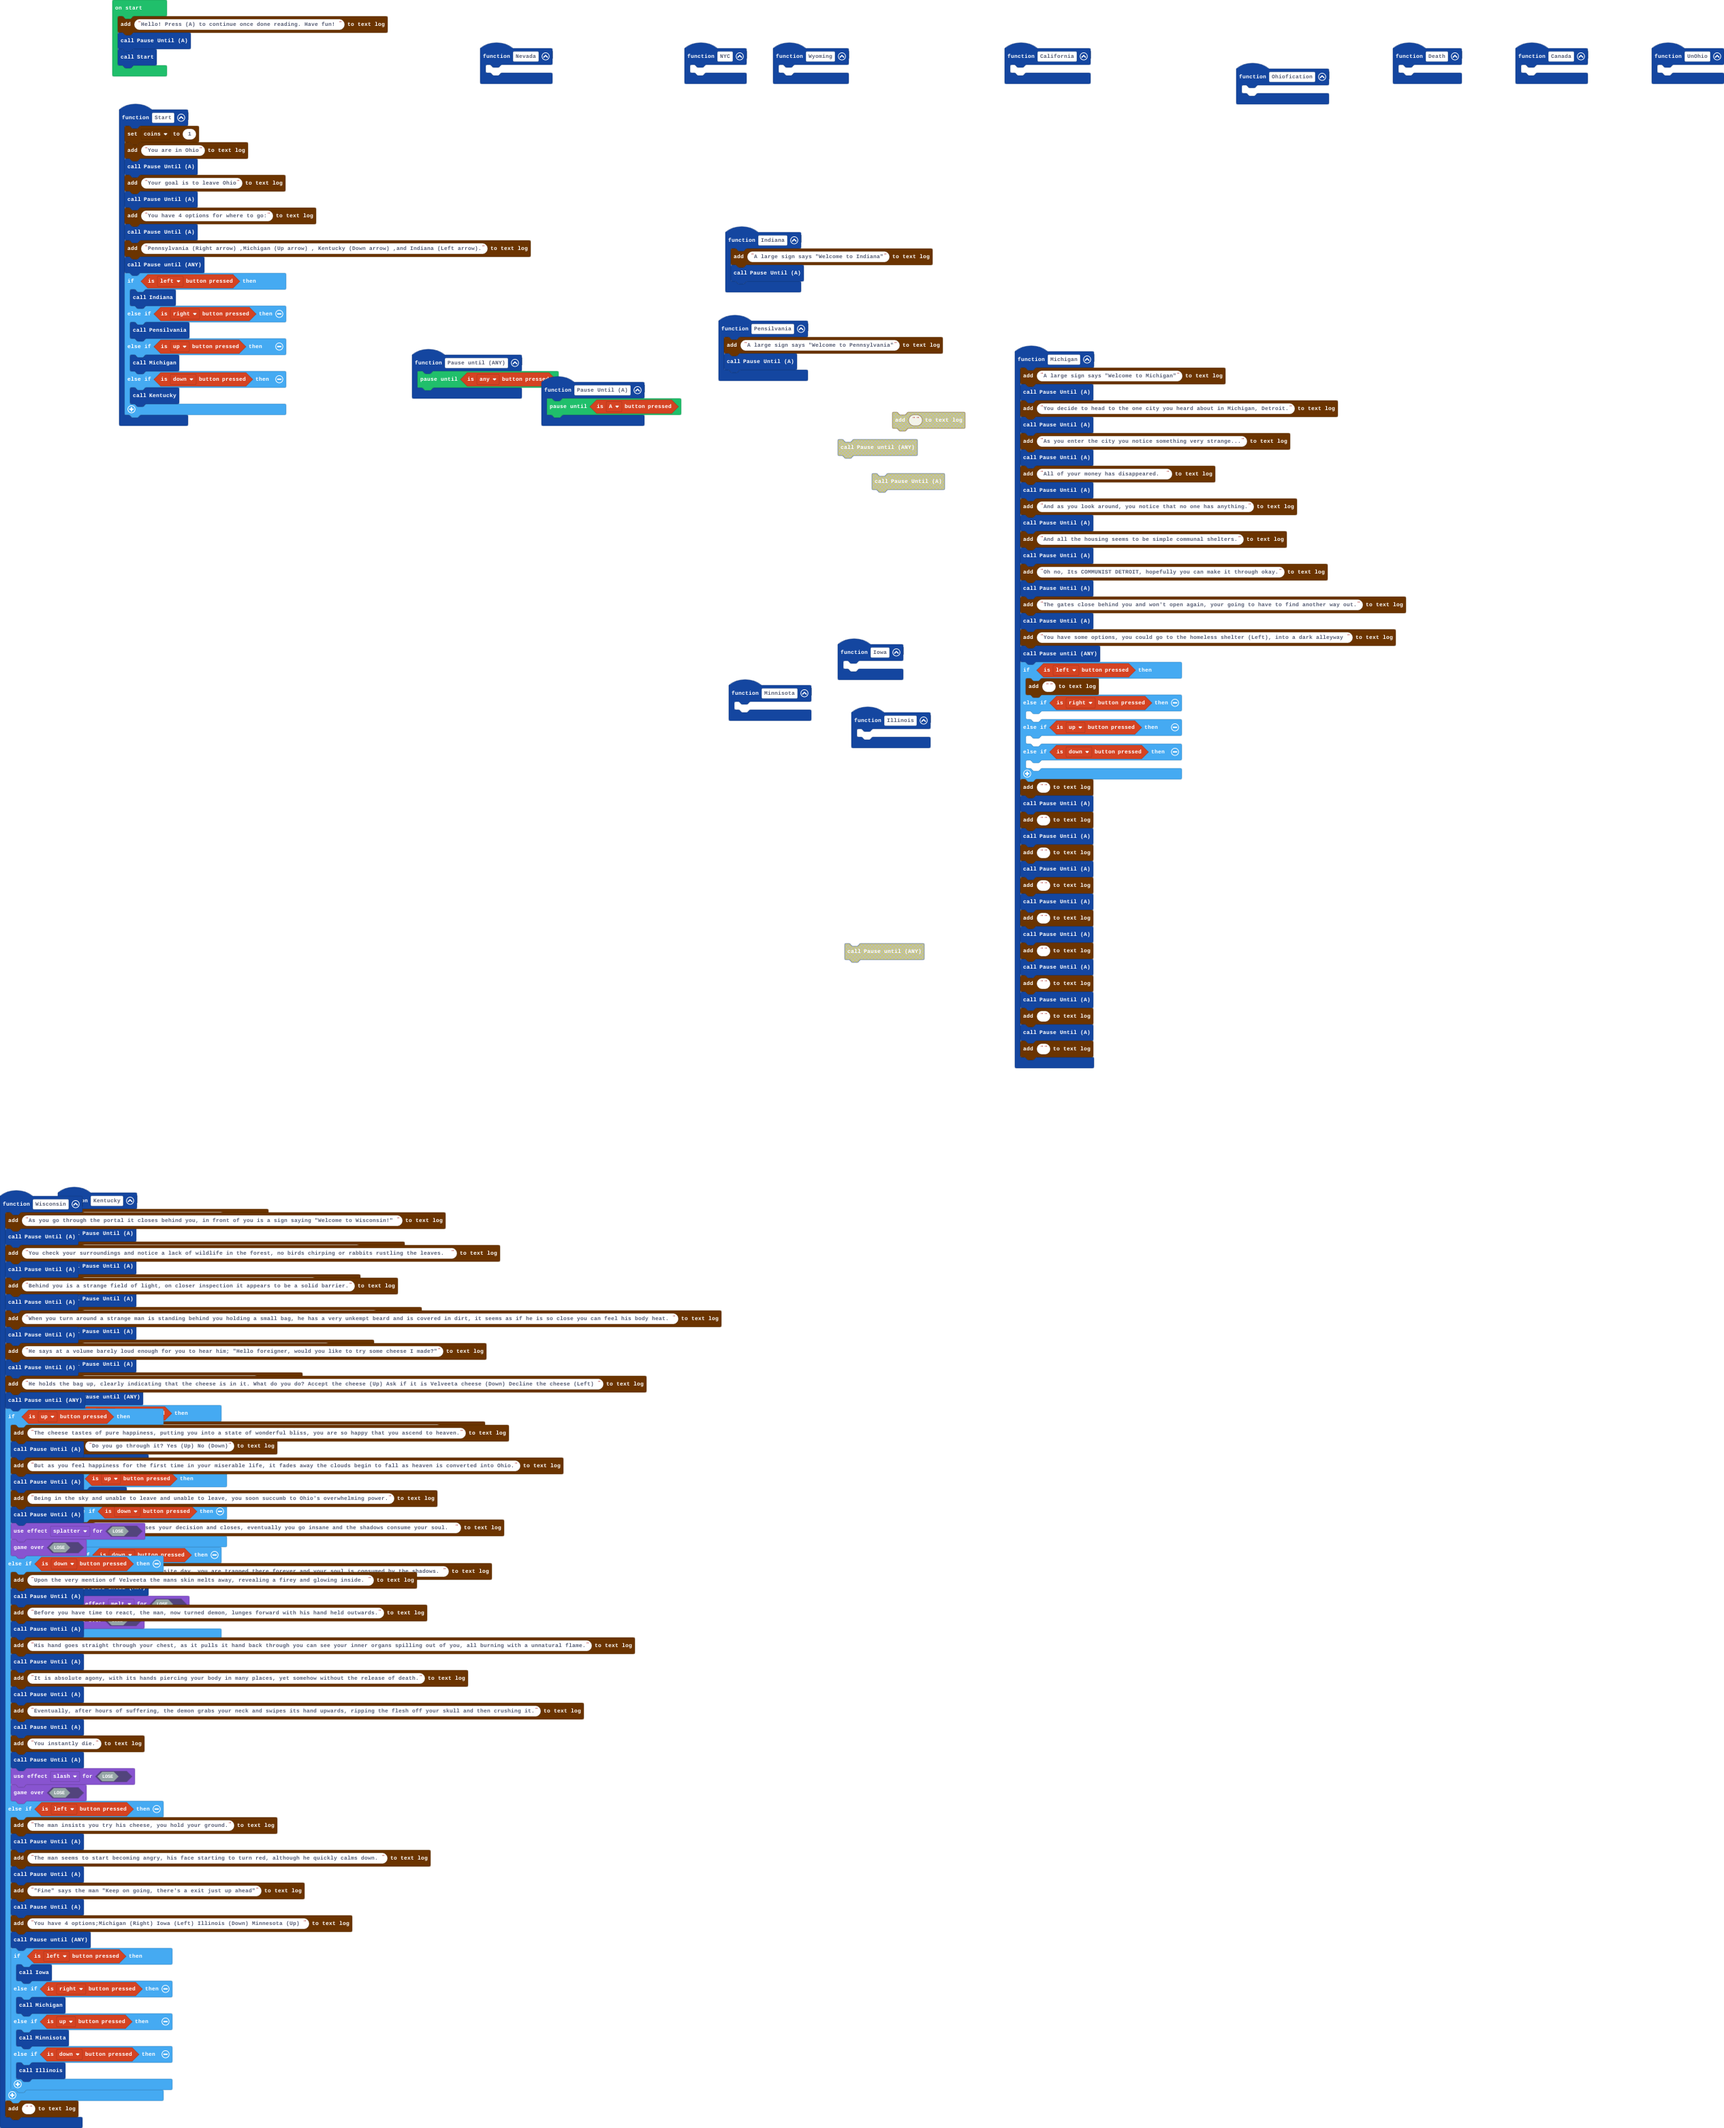
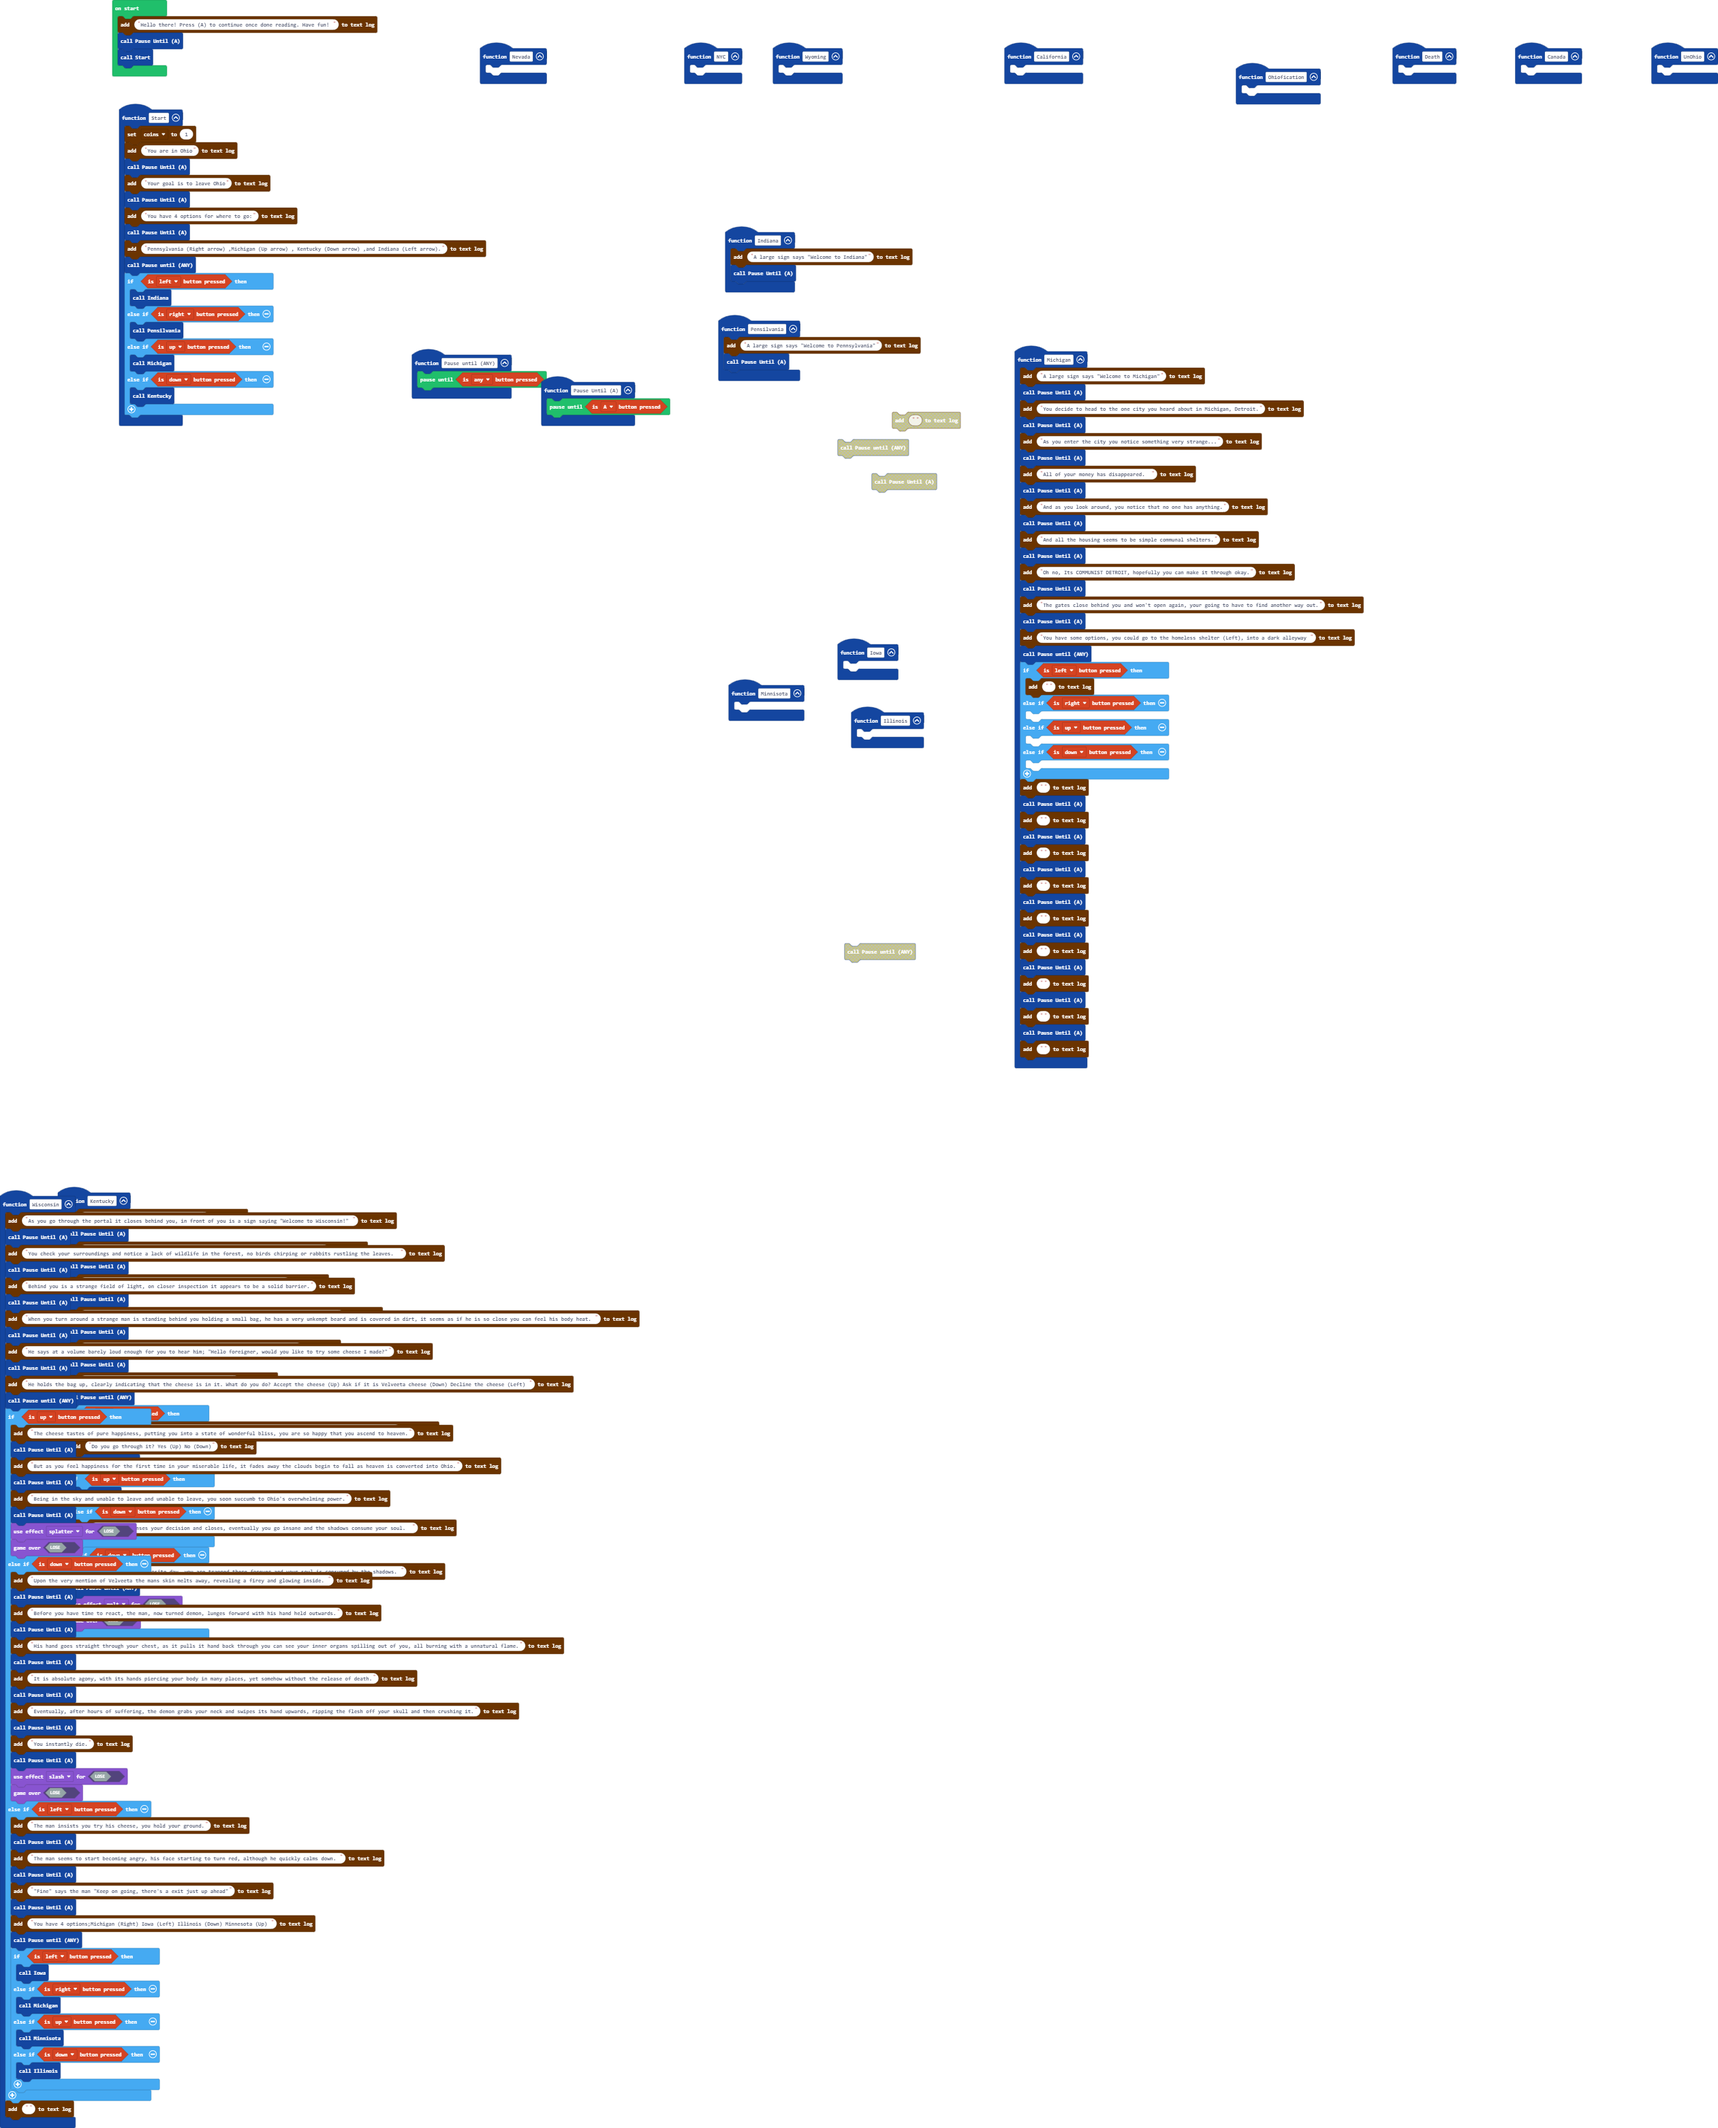
Update main.blocks, main.ts

diff --git a/main.ts b/main.ts
@@ -198,6 +198,6 @@ function Minnisota () {
 function UnOhio () {
 	
 }
-adventure.addToTextlog("Hello! Press (A) to continue once done reading. Have fun! ")
+adventure.addToTextlog("Hello there! Press (A) to continue once done reading. Have fun! ")
 Pause_Until_A()
 Start()
